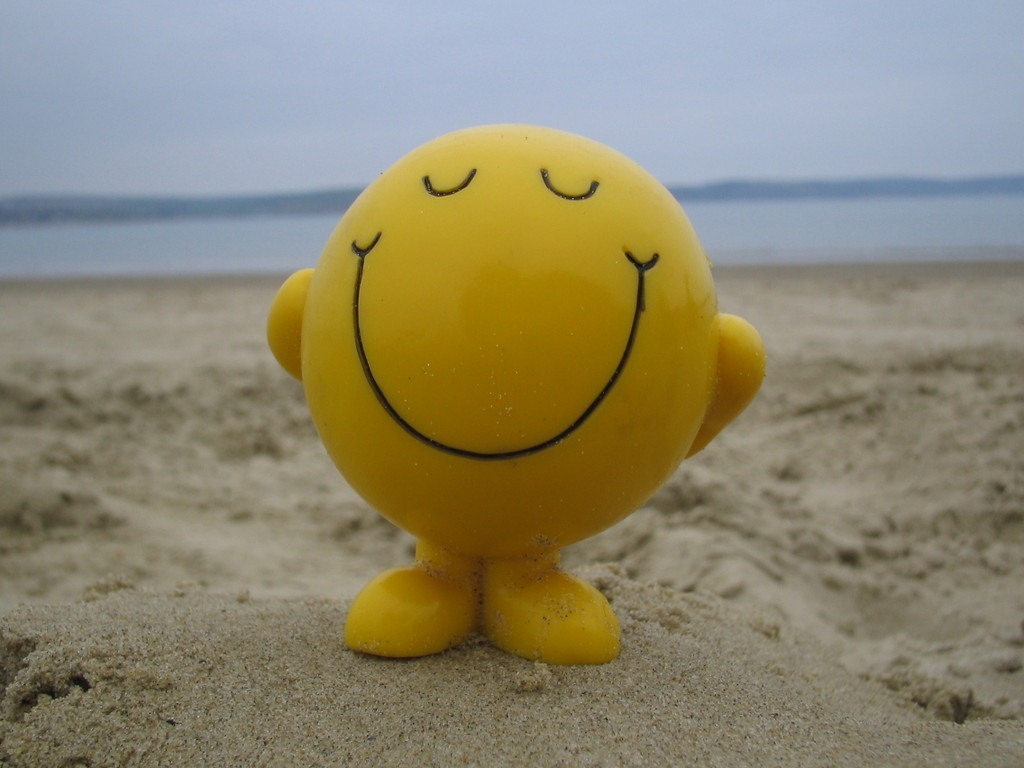
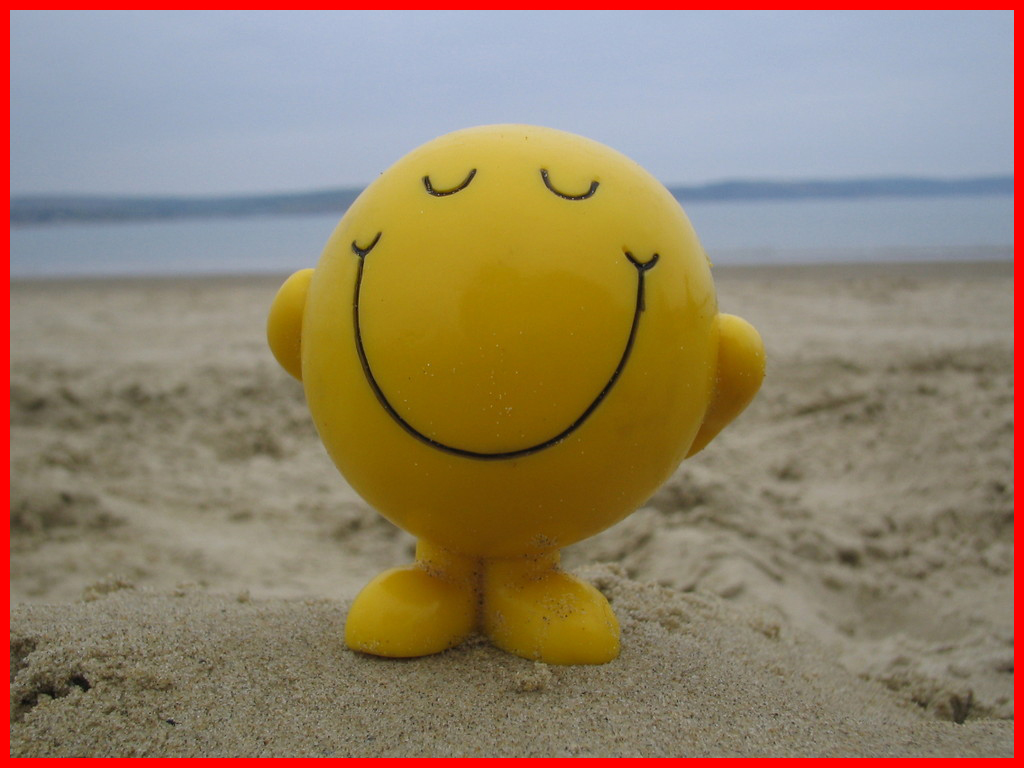
Background image now takes an optional argument of center

Changed region(s): [[0.0, 0.0, 1.0, 1.0]]

diff --git a/js/jquery.ez-bg-resize.js b/js/jquery.ez-bg-resize.js
@@ -48,11 +48,6 @@
 	
 	// Actual resize function
     function resizeImage() {
-		
-		// Allow scrolling again
-		$("body").css({
-            "overflow":"auto"
-        });
 	
         $("#jq_ez_bg").css({
             "position":"fixed",
@@ -64,6 +59,9 @@
             "height":$(window).height() + "px",
 			"opacity" : jqez.opacity
         });
+		
+		// Image relative to its container
+		$("#jq_ez_bg").children('img').css("position", "relative");
 
         // Resize the img object to the proper ratio of the window.
         var iw = $("#jq_ez_bg").children('img').width();
@@ -93,8 +91,29 @@
             $("#jq_ez_bg").children('img').css("height",$(window).height());
             $("#jq_ez_bg").children('img').css("width",Math.round($(window).height() * (1/fRatio)));
         }
+		
+		// Center the image
+		if (jqez.center) {
+			if ($("#jq_ez_bg").children('img').width() > $(window).width()) {
+				var this_left = ($("#jq_ez_bg").children('img').width() - $(window).width()) / 2;
+				$("#jq_ez_bg").children('img').css("left", -this_left);
+			}
+			if ($("#jq_ez_bg").children('img').height() > $(window).height()) {
+				var this_height = ($("#jq_ez_bg").children('img').height() - $(window).height()) / 2;
+				$("#jq_ez_bg").children('img').css("top", -this_height);
+			}
+		}
 
-        $("#jq_ez_bg").css("visibility","visible");
+		console.log(this_height);
+
+        $("#jq_ez_bg").css({
+			"visibility" : "visible"
+		});
+
+		// Allow scrolling again
+		$("body").css({
+            "overflow":"auto"
+        });
 		
         
     }

diff --git a/index.html b/index.html
@@ -13,10 +13,11 @@
 	<script>
 		$(document).ready(function() {
 			$.ezBgResize({
-				img     : "image/bg.jpg", // Relative path example.  You could also use an absolute url (http://...).
+				img     : "image/bg3.jpg", // Relative path example.  You could also use an absolute url (http://...).
 				width   : 1024,
 				height  : 768,
-				opacity : 1 // Opacity! 1 = 100%.  This is optional.
+				opacity : 1, // Opacity! 1 = 100%.  This is optional.
+				center  : true
 			});
 		});
 	</script>
@@ -28,9 +29,9 @@
 		<p class="title">Example Example jQuery Code</p>
 		<p class="code">
 			$.ezBgResize({<br />
-				&nbsp;&nbsp;&nbsp;&nbsp;img    : "image/bg.jpg",<br />
-				&nbsp;&nbsp;&nbsp;&nbsp;width  : 1024, // Image default width<br />
-				&nbsp;&nbsp;&nbsp;&nbsp;height : 768 // Image default height<br />
+				&nbsp;&nbsp;&nbsp;&nbsp;img    : "image/bg.jpg", // Required.<br />
+				&nbsp;&nbsp;&nbsp;&nbsp;width  : 1024, // Required. Default image width.<br />
+				&nbsp;&nbsp;&nbsp;&nbsp;height : 768 // Required. Default image height.<br />
 			});
 		</p>
 		<p class="left">That's it!  Super simple!!!</p>
